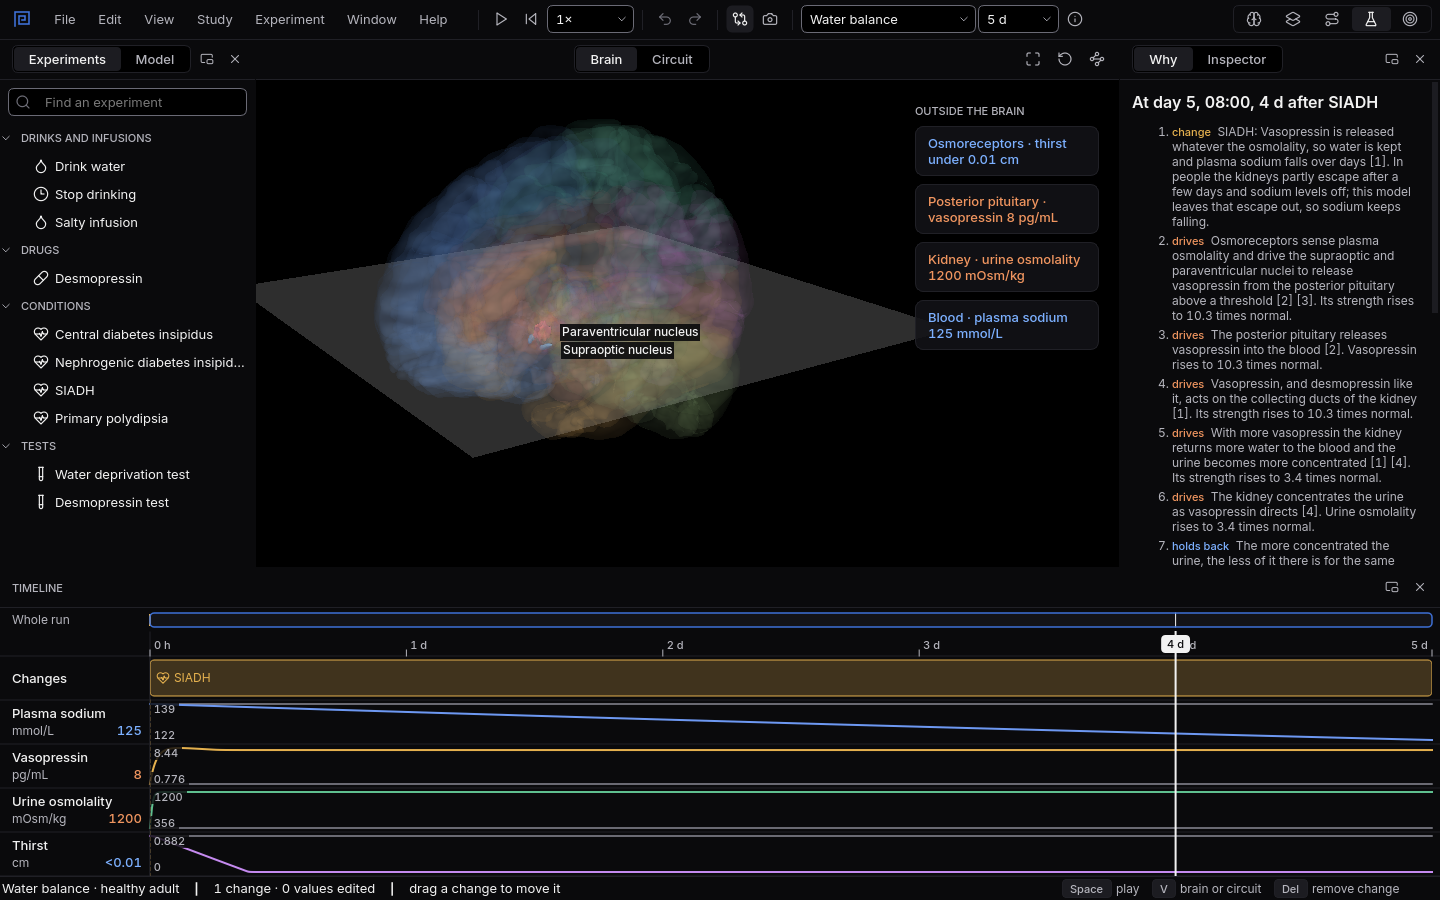
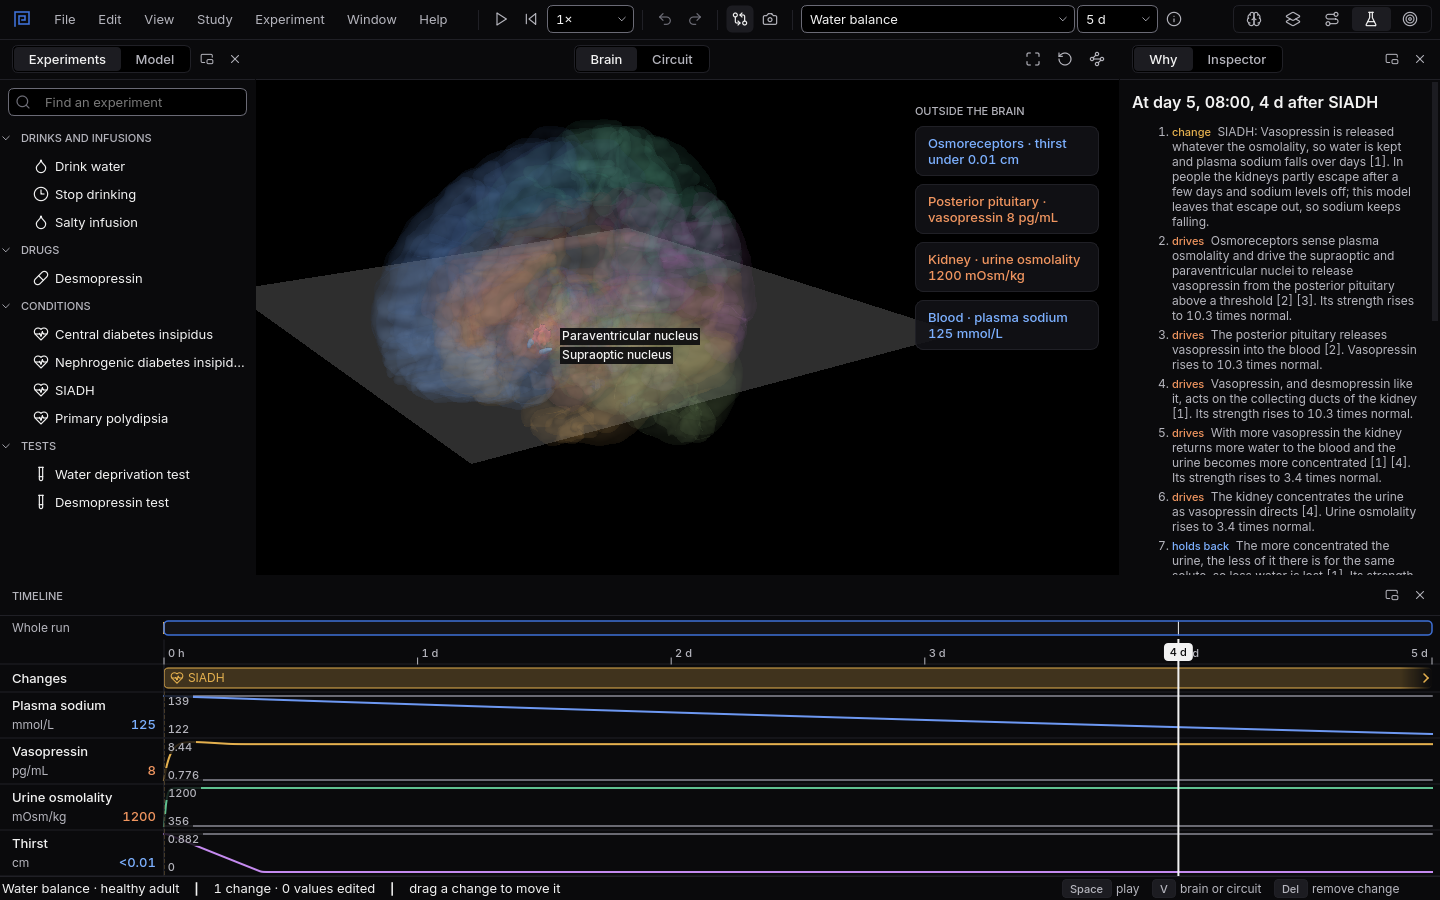
Draw a Lab test without a set length up to its last reading, and retake the handbook pictures of the timeline

diff --git a/tests/test_desktop_lab_timeline.py b/tests/test_desktop_lab_timeline.py
@@ -825,3 +825,11 @@ def test_a_dose_is_drawn_as_a_marker_not_a_bar(timeline):
     assert image.pixel(round(rect.center().x()), y) != blank.pixel(round(rect.center().x()), y)
     far = round(timeline.x_of(900.0))
     assert image.pixel(far, y) == blank.pixel(far, y)
+
+
+def test_a_test_without_a_set_length_ends_at_its_last_reading(timeline):
+    doc = timeline.document
+    doc.add_block("pill_test", 300.0)
+    rect = timeline.block_rect(0)
+    assert rect.right() == pytest.approx(timeline.x_of(300.0 + 60.0), abs=1.0)
+    assert timeline.block_caption(0) == "1 h"

diff --git a/cns_desktop/lab/timeline_layout.py b/cns_desktop/lab/timeline_layout.py
@@ -101,7 +101,11 @@ class TimelineLayout:
         if block.length is not None:
             return block.length
         test = next((t for t in self.document.model.tests if t.key == block.experiment), None)
-        return test.length if test is not None else None
+        if test is None:
+            return None
+        if test.length is not None:
+            return test.length
+        return max((r.after for r in test.readings), default=None)
 
     def block_rows(self) -> list[int]:
         blocks = self.document.experiment.blocks
